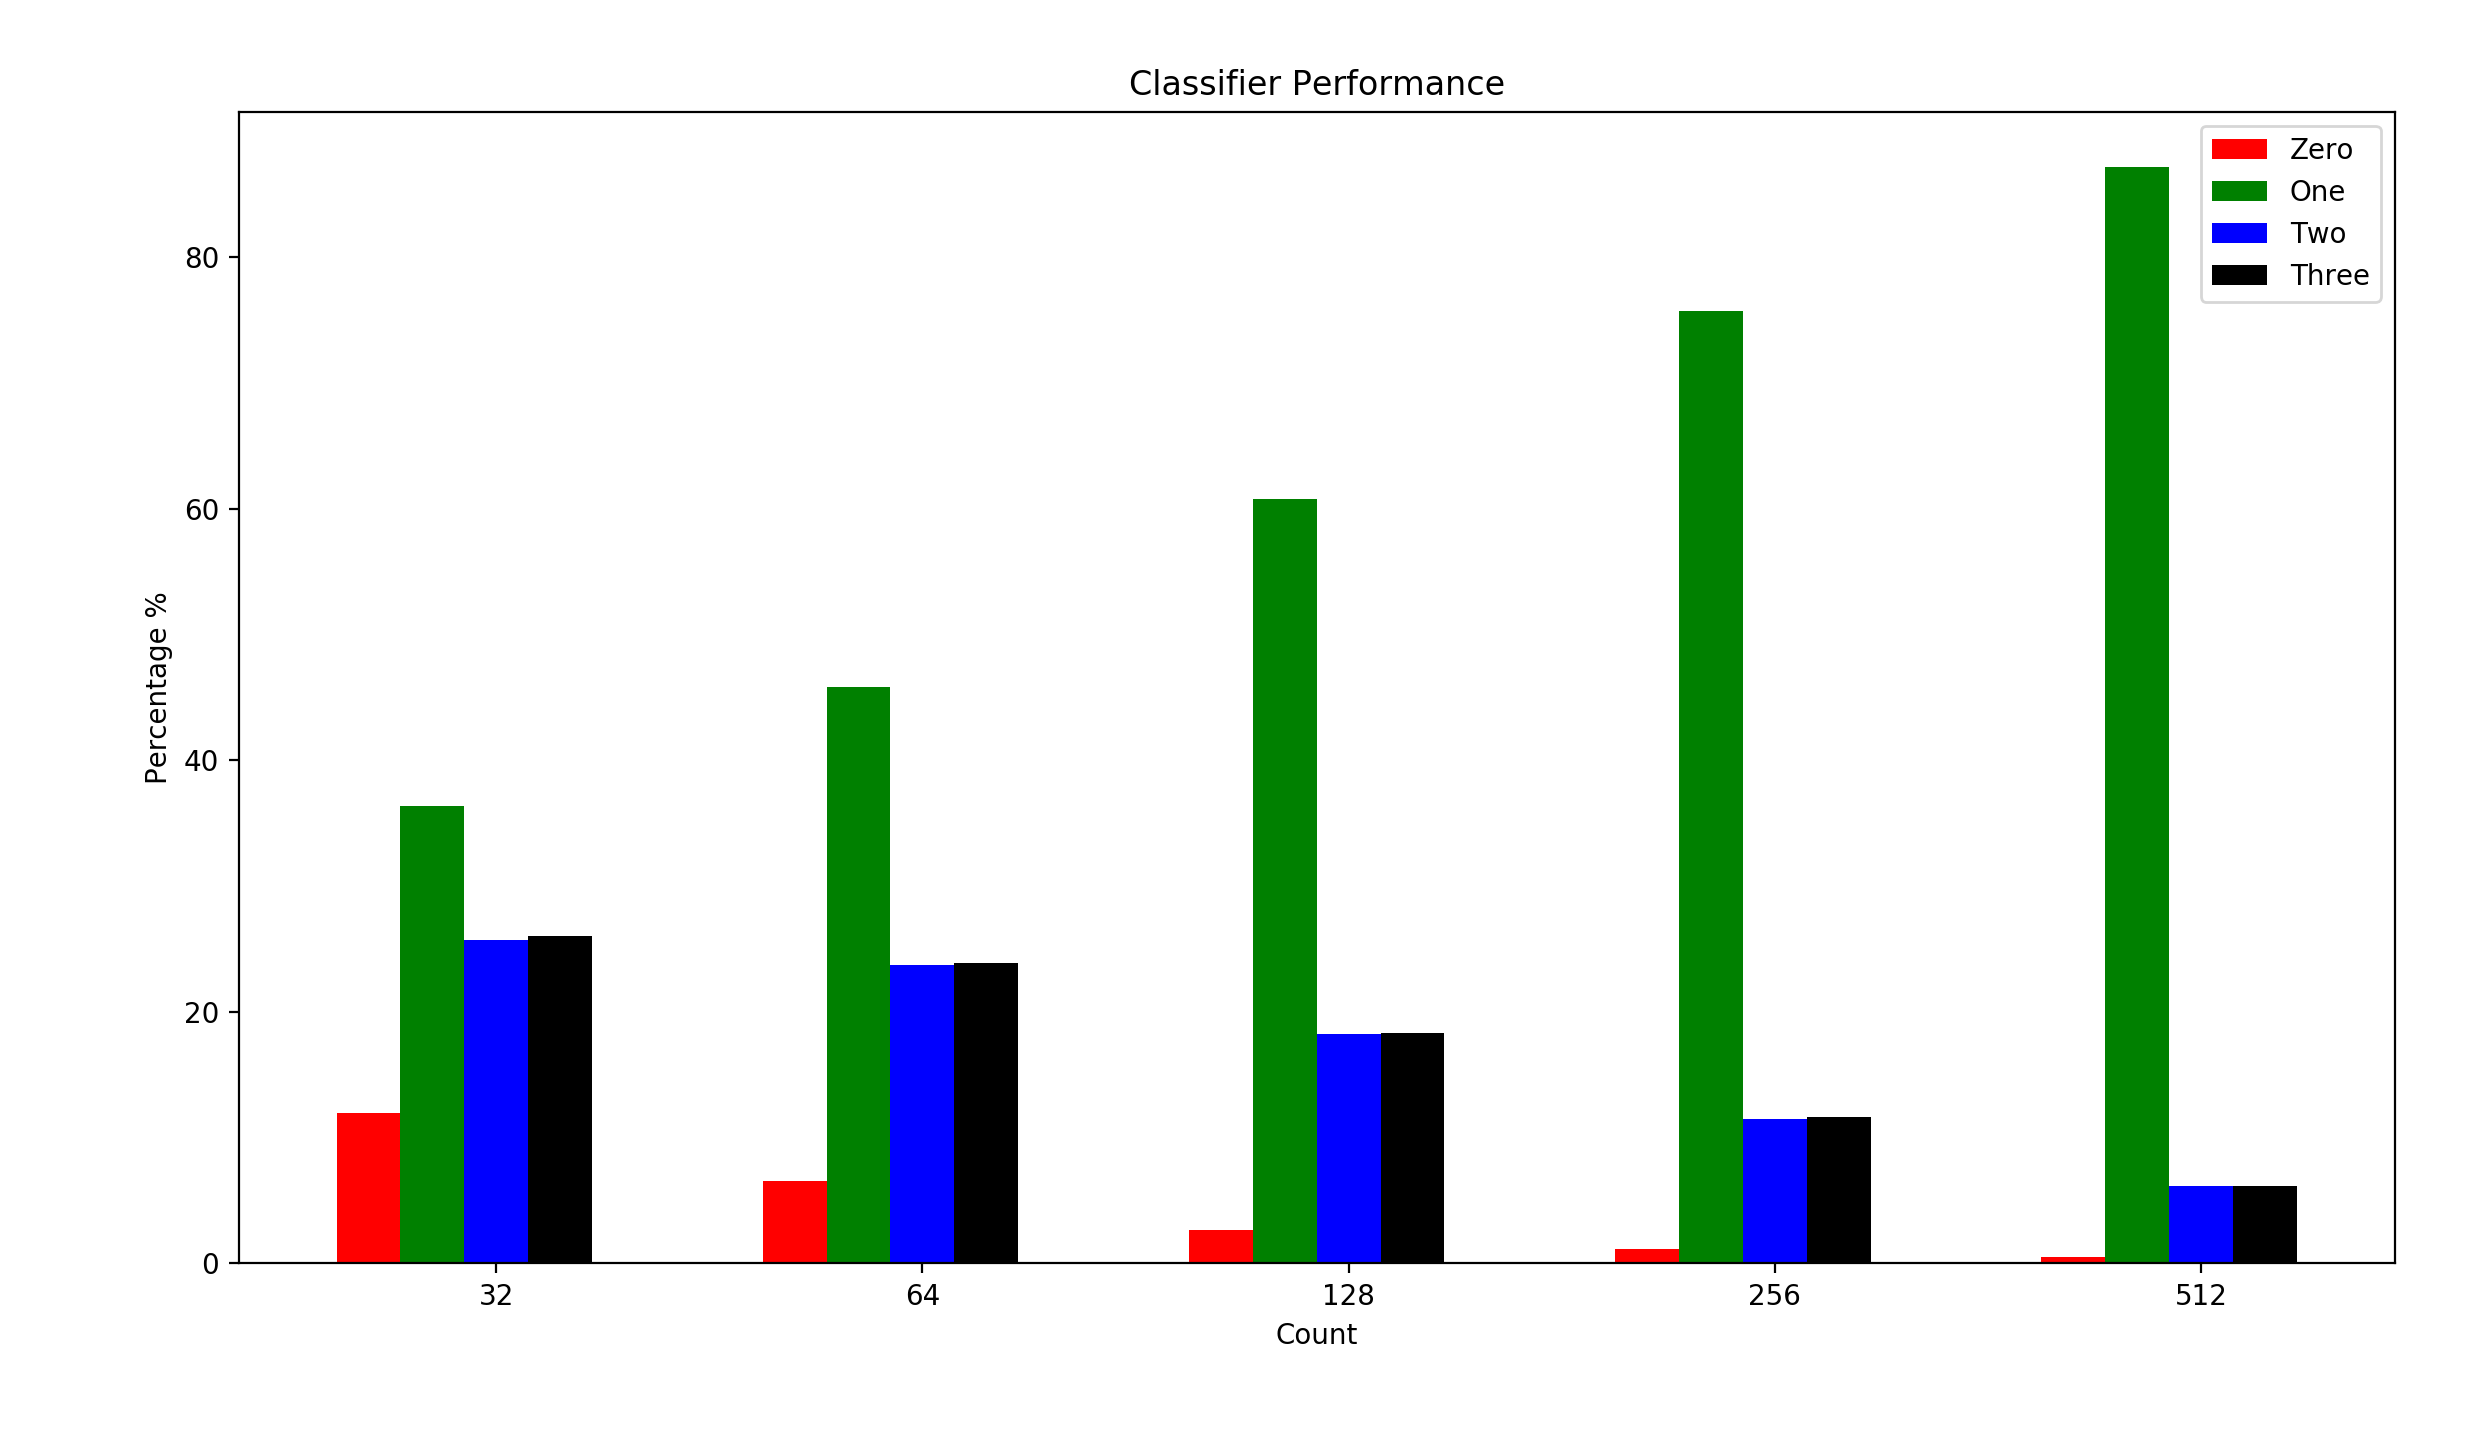
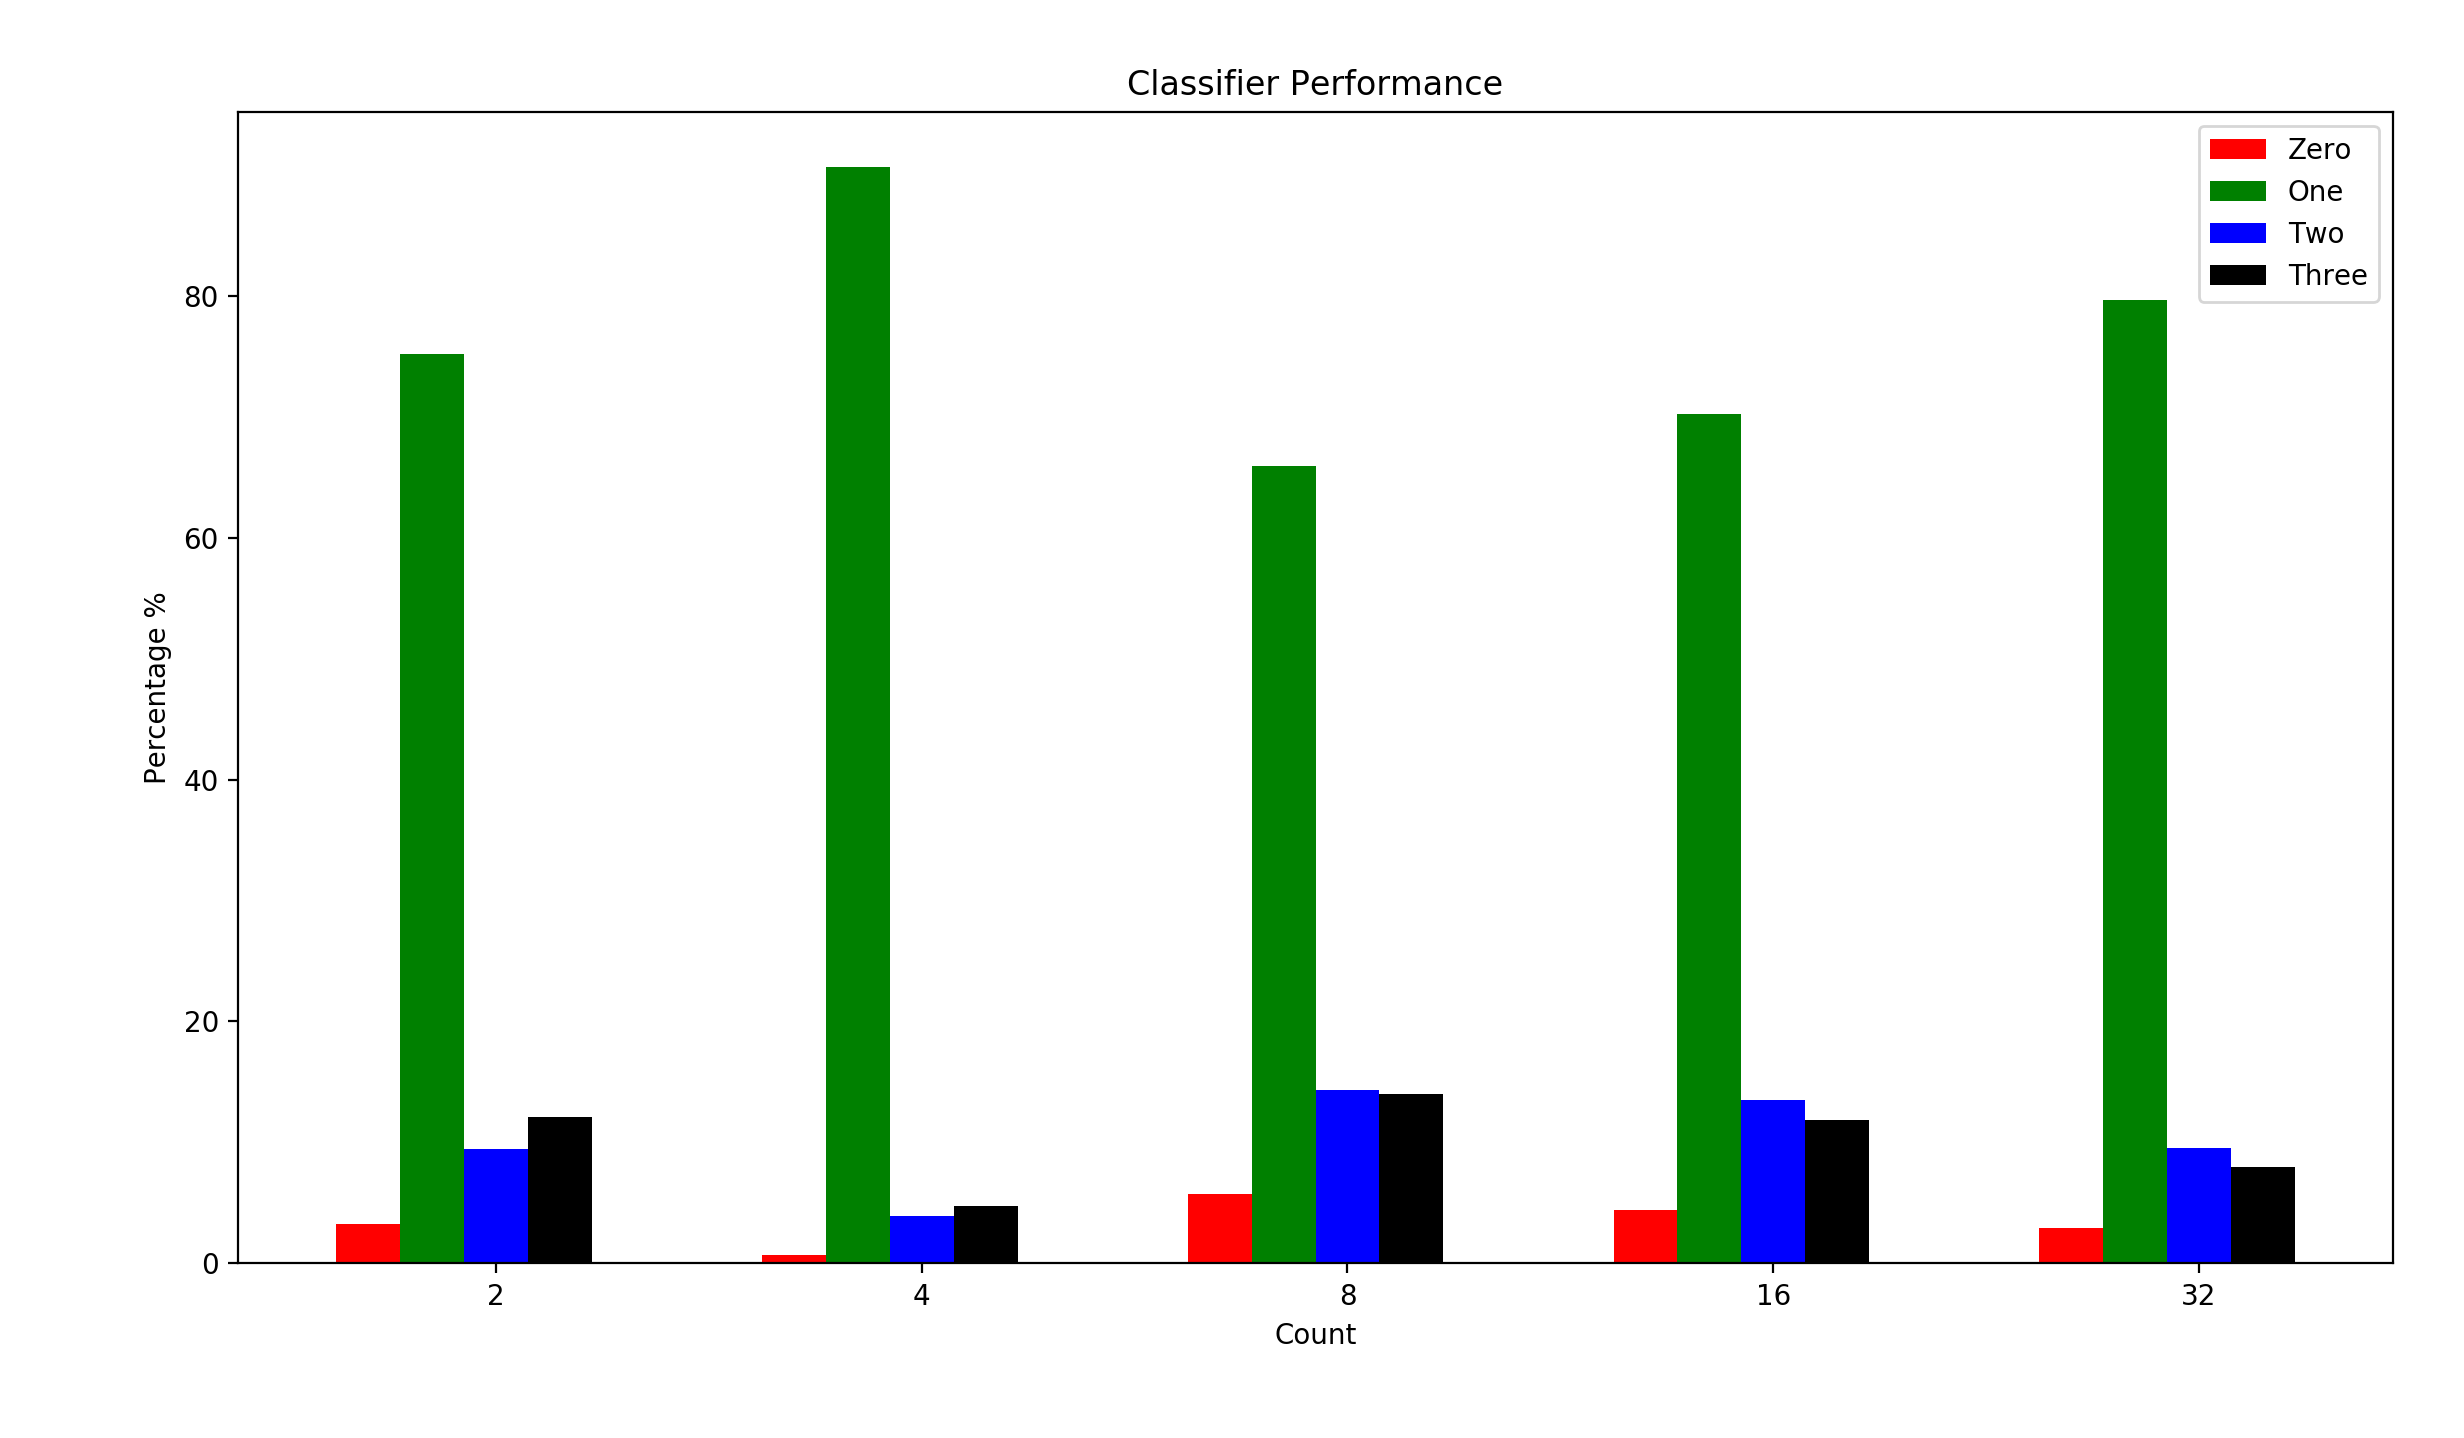
MFCC classifier performance tweaks

diff --git a/SpeechRecognition/MFCC/classifier_performance.py b/SpeechRecognition/MFCC/classifier_performance.py
@@ -38,24 +38,34 @@ import python_speech_features as psf
 from nupic.encoders.random_distributed_scalar import RandomDistributedScalarEncoder as RDSE
 
 # Python implementations
-from nupic.algorithms.spatial_pooler import SpatialPooler
+# from nupic.algorithms.spatial_pooler import SpatialPooler
 # from nupic.algorithms.temporal_memory import TemporalMemory
 # from nupic.algorithms.sdr_classifier import SDRClassifier
 
 # C++ implementations
-# from nupic.bindings.algorithms import SpatialPooler
+from nupic.bindings.algorithms import SpatialPooler
 from nupic.bindings.algorithms import TemporalMemory
 from nupic.bindings.algorithms import SDRClassifier
 
 
-def WavToSDR(file_name, desired_samplerate):
+SDR_cache = dict()
+
+
+def WavToSDR(file_name, desired_samplerate=8000):
+  global SDR_cache
+  if SDR_cache.__contains__(file_name):
+    return SDR_cache[file_name]
+
   samplerate, samples = wav.read(file_name)
 
   if not samplerate == desired_samplerate:
     samples = resampy.resample(samples, samplerate, desired_samplerate)
     samplerate = desired_samplerate
 
-  MFCCs = psf.mfcc(samples, samplerate=samplerate, numcep=16, nfft=2048, winfunc=np.hanning)
+  winlen = 0.0025  # milliseconds
+  winstep = (winlen * 2.5) / 10.0
+
+  MFCCs = psf.mfcc(samples, samplerate=samplerate, winlen=winlen, winstep=winstep, numcep=16, nfft=2048, winfunc=np.hanning)
 
   # Alter the distribution
   mean = np.mean(MFCCs)
@@ -79,6 +89,7 @@ def WavToSDR(file_name, desired_samplerate):
     merged = list(itertools.chain.from_iterable(combined))
     sdrs.append(np.asarray(merged).astype('uint32'))
 
+  SDR_cache[file_name] = sdrs
   return sdrs
 
 
@@ -97,7 +108,7 @@ if __name__ == "__main__":
   # Use a heard spoken 'one' sample to test with.
   test_name = "1_jackson_0.wav"
 
-  test_sdrs = WavToSDR(data_path + test_name, 50000)
+  test_sdrs = WavToSDR(data_path + test_name, 100000)
 
   verbose = True
   show_timing = False
@@ -107,7 +118,8 @@ if __name__ == "__main__":
   encoding_width = 8192  # bits
 
   # training_counts = [int(np.power(2, x)) for x in range(3, 7)]
-  training_counts = [32, 64, 128, 256, 512]
+  # training_counts = [32, 64, 128, 256, 512]
+  training_counts = [2, 4, 8, 16, 32]
 
   average_predictions = [[], [], [], []]
 
@@ -183,7 +195,7 @@ if __name__ == "__main__":
 
       bucketIdx = int(file_name[len(data_path)])
 
-      encoding = WavToSDR(file_name, 50000)
+      encoding = WavToSDR(file_name, 100000)
 
       tm.reset()
 
@@ -237,7 +249,7 @@ if __name__ == "__main__":
 
     bucketIdx = int(file_name[len(data_path)])
 
-    encoding = WavToSDR(file_name, 50000)
+    encoding = WavToSDR(file_name, 100000)
 
     print("Testing: {} ({} SDRs)".format(
       file_name, len(encoding)))
